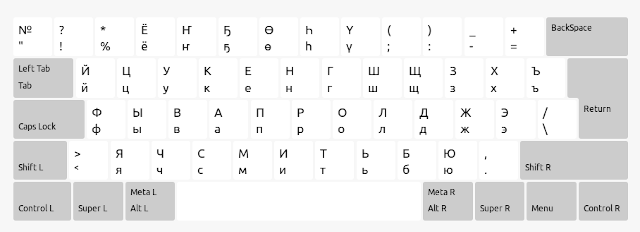
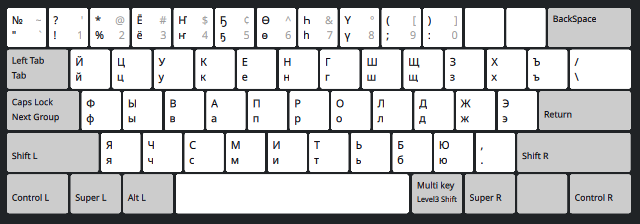
Revamped instructions and local install (#1)
* Prep for local install

* README instructions in en and ru, screenshots

* Install script

diff --git a/README.md b/README.md
@@ -1,27 +1,104 @@
-# How to install
-## Ubuntu Linux
-Настоящая инструкция была написана для Ubuntu 12.04, но позднее также была опробована на Ubuntu 20.04, И даже Arch Linux with KDE Plasma. Работает одинаково. Возможно, всё это будет работать и в других версиях Линукса и других Юникс-образных системах. Если Вы знаете, что Вы делаете, то подогнать процесс установки под Вашу конфигурацию не составит большого труда.
+# Sakha keyboard layout for XKB
 
-1. Станьте рутом (root). Например командой `su -` или `sudo sh`
-1. Возьмите файл sah из директории "symbols" этого репозитория.
-1. Скопируйте его в свой /usr/share/X11/xkb/symbols/ (или туда, где ваши xkb файлы лежат).
-1. Возьмите файл evdev-sah.xml из директории "rules".
-1. Нет, этот файл целиком не надо никуда копировать. Откройте его в любом текстовом редакторе и изучите его XML содержимое.
-1. Откройте в другом окне редактора Ваш /usr/share/X11/xkb/rules/evdev.xml и найдите там место, куда вставить новый `<layout>`. Обычно они там отсортированы в алфавитном порядке по коду языка, поэтому имеет смысл воткнуть нашу "sah" раскладку между сербской "rs" и словакской "si". Совет: сделайте поиск по тексту на слово "Slovenian".
-1. Скопируйте весь текст от тэга `<layout>` до тэга `</layout>` включительно из файла evdev-sah.xml и вставьте его в Ваш системный evdev.xml - сохраните файл.
+In other languages:
+* [Есть версия этой инструкции по русски](README.ru.md)
 
-Всё. После этого в настройках многоязыковой клавиатуры должен появиться язык "Sakha" с разными вариантами раскладок. "Settings" -> "Region & Language" -> "Input Sources" -> "+". Ищите в разделе "Other" на букву "S" (Sakha). Если не появился, попробуйте перезагрузить Х. Например, "Log Out" а потом обратно "Log In".
+# Variants
 
-## Варианты раскладок
-* MS Windows (default) - [почти] в точности повторяет раскладку от Майкрософт, где пять якутских букв ҤҔӨҺҮ расположены по верхнему ряду клавиатуры вместо цифр 4-8. В отличие от MS Windows, присутствует русская буква Ё на цифре 3, что делает алфавит полным и поэтому не требует использования отдельной русской раскладки. Сдвоенная буква Дь тоже убрана за ненадобностью и клавиша 2 используется для других полезных знаков. Цифры можно набирать, используя правую клавишу Alt. Экспериментируйте.
-* he5yH - Старая ҺӨҔҮҤ раскладка, которая была создана давно, ещё в начале этого столетия, когда никаких стандартов не существовало. Оставлена для обратной совместимости и для любителей ретро.
-* Phonetic (Android) - альтернативная раскладка, экспериментальная, фонетически напоминает английскую QWERTY, в точности как на телефонах Андроид с драйвером AnySoftKeyboard, и использует ровно 26 алфавитных клавиши минимальной английской клавиатуры, что делает её совместимой с заказными миниатюрными клавиатурами (типа пульт ДУ для "умных" телевизоров). А ещё может быть полезной для тех кто привык к QWERTY, т.к. не требует переучивания на ЙЦУКЕНГ и никаких дополнительных наклеек. К тому же не содержит лишних (русских) букв, таких как Я, Ё, Ж, Ш и т.д., хотя доступ к ним всё-равно есть через правую клавишу ALT (см. карту в Gnome).
+This Sakha keyboard layout comes with three distinct variants.
 
-Раскладка с использованием ALT по постановлению Правительства РС(Я) из данной разработки убрана, как не имеющая практической ценности. К тому же, она уже реализована в последних дистрибутивах Линукс в языковом разделе "Russian" под вариантом "Yakut".
+## MS Windows (default)
 
-PS: Если у Вас не Убунту Линукс, то настройки xkb могут оказаться в /usr/X11R6/lib/X11/xkb/ или /etc/X11/xkb/ или в любом другом месте. Ищите внимательно.
+(Almost) exact replica of the Russian layout by Microsoft Windows
+with five "extra" Sakha letters ҤҔӨҺҮ located in the top row replacing the numbers from 4 to 8.
+But almost exact is not exact. This variant comes with a few tweaks:
+* Unlike the original Windows one this layout has the Russian letter "Ё" replacing the numeric key "3" which completes the Russian alphabet and let one layout be used for both languages.
+* The ligature "Дь" is omitted as it's not actually used in Sakha typography.
+* The numerals, besides the numpad, can be typed with Alt-R (Multi key Level3 shift).
 
-## Вариант MS Windows
 ![WinKeys variant layout](./files/sah-xkb-win-layout.png)
 
-:copyright: 2020 Кыраһа Михаил
+## he5yH
+
+The legendary layout also known as "ҺӨҔҮҤ" that existed since the begining of the century
+and become a de facto standard when there were no standards. Added as a variant to this
+layout for backward compatibility and for retro enthusiasts.
+
+![Segun variant layout](./files/sah-xkb-seg-layout.png)
+
+## Phonetic (Android)
+
+Alternative keyboard layout (experimental) that is phonetically follows the English QWERTY.
+It existed as a variant of a Sakha keyboard for Android as an extention for AnySoftKeyboard.
+The main advantage of this variant is that it uses exactly 26 alphabetiical keys of a
+standard QWERTY keyboard which makes it compatible with custom portable keyboards
+such as e.g. "Smart" TV remotes. It also can be used by those who are used to QWERTY
+layouts and don't want to learn ЙЦУКЕНГ. This phonetic variant omits "purely Russian"
+cyrillic letters that are not natural in Sakha language, e.g. Я, Ё, Ж, Ш, etc.
+However they can be enterd with the Right Alt key.
+
+![Phonetic variant layout](./files/sah-xkb-pho-layout.png)
+
+# How to install
+
+Download a zip archive from [the latest release](https://github.com/kyraha/sah-xkb/releases/latest)
+and unpack it on your local drive. Then...
+
+## TL;DR or Scripted local user installation
+
+1. `cd <path/to/unpacked/sah-xkb>`
+1. `./install-local.sh`
+
+Then open your system settings, keyboard, or language, or input methods,
+or whatever the option to add new keyboard layouts in your system is.
+The Sakha language should now be available in the list.
+
+## No scripts, manual local user installation
+
+Don't trust scripts? -- No problem. You can install this package manually too.
+
+1. Make sure you don't have other XKB settings in your local `$HOME/.config/xkb`
+1. If you have other settings make sure you won't overwrite them with these manual steps
+1. `mkdir -p $HOME/.config/xkb`
+1. `cp -r sah-xkb/rules $HOME/.config/xkb/`
+1. `cp -r sah-xkb/symbols $HOME/.config/xkb/`
+
+Then open your system settings, keyboard, or language, or input methods,
+or whatever the option to add new keyboard layouts in your system is.
+The Sakha language should now be available in the list.
+
+## System wide installation
+
+To install the custom keyboard layout on the whole system one must have a root (administrator)
+permissions on that system. The following instructions assume that you have gained
+such access in a terminal as well as you take full responsibility on any damages to
+the system you may or may not inadvertently caused while possessing the rights.
+Search and read more about `su -` or `sudo sh` commands. You've been warned.
+
+Another assumption is that the XKB configuration files reside in `/usr/share/X11/xkb`
+in your system.
+
+This approach has been tested in Ubuntu 12.04, and later in Ubuntu 20.04, and even
+in Arch Linux with KDE Plasma 6 on Wayland. It has worked equally well on all of
+aforementioned systems.
+Probability is high, that it will work in any other Linux and Unix-like systems that
+use XKB (X keyboard extension). You may alter the process as you feel fit
+if you know what you're doing.
+
+1. Become root
+1. Copy file `symbols/sakha` to `/usr/share/X11/xkb/symbols/`
+1. Open `rules/evdev.xml` in a text editor and study its XML content
+1. Open `/usr/share/X11/xkb/rules/evdev.xml` in a separate editor and find a spot
+where you can insert a new `<layout>` item. Usually the "layouts" in this file are sorted in
+the alphabetical order. So it might make sense to insert "sah" between "rs" and "si".
+Hint: serch for "Slovenian".
+1. Copy and paste the block between and including the `<layout>` and `</layout>`
+from the downloaded file into the system `evdev.xml`.
+1. Save the file.
+
+That's it. In the system settings where you usually can activate keyboard layouts you should
+see the new language "Sakha" with a few variants. Depending on your Desktop Environment and
+Window Manager it could be: "Settings" -> "Region & Language" -> "Input Sources" -> "+ Add".
+Try "More" or "Other". You might need to logout and log back in again if it doesn't appear.
+
+:copyright: 2025 Kyraha Mikhail

diff --git a/README.ru.md b/README.ru.md
@@ -1,0 +1,75 @@
+# Якутская Раскладка Клавиатуры для Линукс
+
+На других языках:
+* [For English click here](README.md)
+
+# Варианты раскладок
+
+## Вариант MS Windows
+
+[Почти] в точности повторяет раскладку от Майкрософт, где пять якутских букв ҤҔӨҺҮ расположены по верхнему ряду клавиатуры вместо цифр 4-8. В отличие от MS Windows, присутствует русская буква Ё на цифре 3, что делает алфавит полным и поэтому не требует использования отдельной русской раскладки. Сдвоенная буква Дь тоже убрана за ненадобностью и клавиша 2 используется для других полезных знаков. Цифры можно набирать, используя правую клавишу Alt. Экспериментируйте.
+
+![WinKeys variant layout](./files/sah-xkb-win-layout.png)
+
+## he5yH
+
+Старая легендарная раскладка ҺӨҔҮҤ, которая была создана давно, ещё в начале этого столетия, когда никаких стандартов не существовало. Оставлена для обратной совместимости и для любителей ретро.
+
+![Segun variant layout](./files/sah-xkb-seg-layout.png)
+
+## Phonetic (Android)
+
+Альтернативная раскладка, экспериментальная, фонетически напоминает английскую QWERTY, в точности как на телефонах Андроид с драйвером AnySoftKeyboard, и использует ровно 26 алфавитных клавиш минимальной английской клавиатуры, что делает её совместимой с заказными миниатюрными клавиатурами (типа пульт ДУ для "умных" телевизоров). А ещё может быть полезной для тех кто привык к QWERTY, т.к. не требует переучивания на ЙЦУКЕНГ и никаких дополнительных наклеек. К тому же не содержит лишних (русских) букв, таких как Я, Ё, Ж, Ш и т.д., хотя доступ к ним всё-равно есть через правую клавишу ALT (как показано на этом снимке).
+
+![Phonetic variant layout](./files/sah-xkb-pho-layout.png)
+
+## Раскладка ГОСТ отсутствует
+
+Раскладка с использованием ALT по постановлению Правительства РС(Я) из данной разработки убрана, как не имеющая практической ценности. К тому же, она уже реализована в последних дистрибутивах Линукс в языковом разделе "Russian" под вариантом "Yakut".
+
+PS: Если у Вас система не Убунту Линукс, то настройки xkb могут оказаться в /usr/X11R6/lib/X11/xkb/ или /etc/X11/xkb/ или в любом другом месте. Ищите внимательно.
+
+# Установка
+
+Скачайте zip файл из раздела [the latest release](https://github.com/kyraha/sah-xkb/releases/latest)
+и распакуйте его к себе на локальный "диск". Затем...
+
+## Способ "Мне лень. Куда нажимать?"
+
+1. `cd <в/папку/куда/распакован/sah-xkb>`
+1. `./install-local.sh`
+
+Потом откройте системные настройки и найдите, где настраиваются раскладки клавиатур.
+Это может быть что-то типа "keyboard", или "language", или "input methods".
+Найдите там Sakha и нажмите "добавить".
+
+## Без скриптов, всё вручную
+
+Не доверяете установочным скриптам? -- Не проблема. Эту раскладку можно установить и вручную.
+
+1. Сначала убедитесь, что ничего ещё не установлено в `$HOME/.config/xkb`
+1. Если что-то уже в этой папке есть, изучите внимательно и убедитесь, что вы ничего не
+сломаете следующими действиями
+1. `mkdir -p $HOME/.config/xkb`
+1. `cp -r sah-xkb/rules $HOME/.config/xkb/`
+1. `cp -r sah-xkb/symbols $HOME/.config/xkb/`
+
+Потом откройте системные настройки и найдите, где настраиваются раскладки клавиатур.
+Это может быть что-то типа "keyboard", или "language", или "input methods".
+Найдите там Sakha и нажмите "добавить".
+
+## На всю систему Linux
+
+Настоящая инструкция была написана для Ubuntu 12.04, но позднее также была опробована на Ubuntu 20.04, И даже Arch Linux with KDE Plasma. Работает одинаково. Возможно, всё это будет работать и в других версиях Линукса и других Юникс-образных системах. Если Вы знаете, что Вы делаете, то подогнать процесс установки под Вашу конфигурацию не составит большого труда.
+
+1. Станьте рутом (root). Например командой `su -` или `sudo sh`
+1. Возьмите файл sakha из директории "symbols" этого репозитория.
+1. Скопируйте его в свой /usr/share/X11/xkb/symbols/ (или туда, где ваши xkb файлы лежат).
+1. Откройте файл evdev.xml из директории "rules". (Нет, этот файл не надо никуда копировать) и изучите его XML содержимое.
+1. Откройте в другом окне редактора Ваш системный `/usr/share/X11/xkb/rules/evdev.xml` и найдите там место, куда вставить новый `<layout>`. Обычно они там отсортированы в алфавитном порядке по коду языка, поэтому имеет смысл воткнуть нашу "sah" раскладку между сербской "rs" и словакской "si". Совет: сделайте поиск по тексту на слово "Slovenian".
+1. Скопируйте весь текст от тэга `<layout>` до тэга `</layout>` включительно из скачанного файла evdev.xml и вставьте его в ваш системный evdev.xml
+1. Сохраните файл.
+
+Всё. После этого в настройках многоязыковой клавиатуры должен появиться язык "Sakha" с разными вариантами раскладок. "Settings" -> "Region & Language" -> "Input Sources" -> "+". Ищите в разделе "Other" на букву "S" (Sakha). Если не появился, попробуйте перезагрузить Х. Например, "Log Out" а потом обратно "Log In".
+
+:copyright: 2020-2025 Кыраһа Михаил
